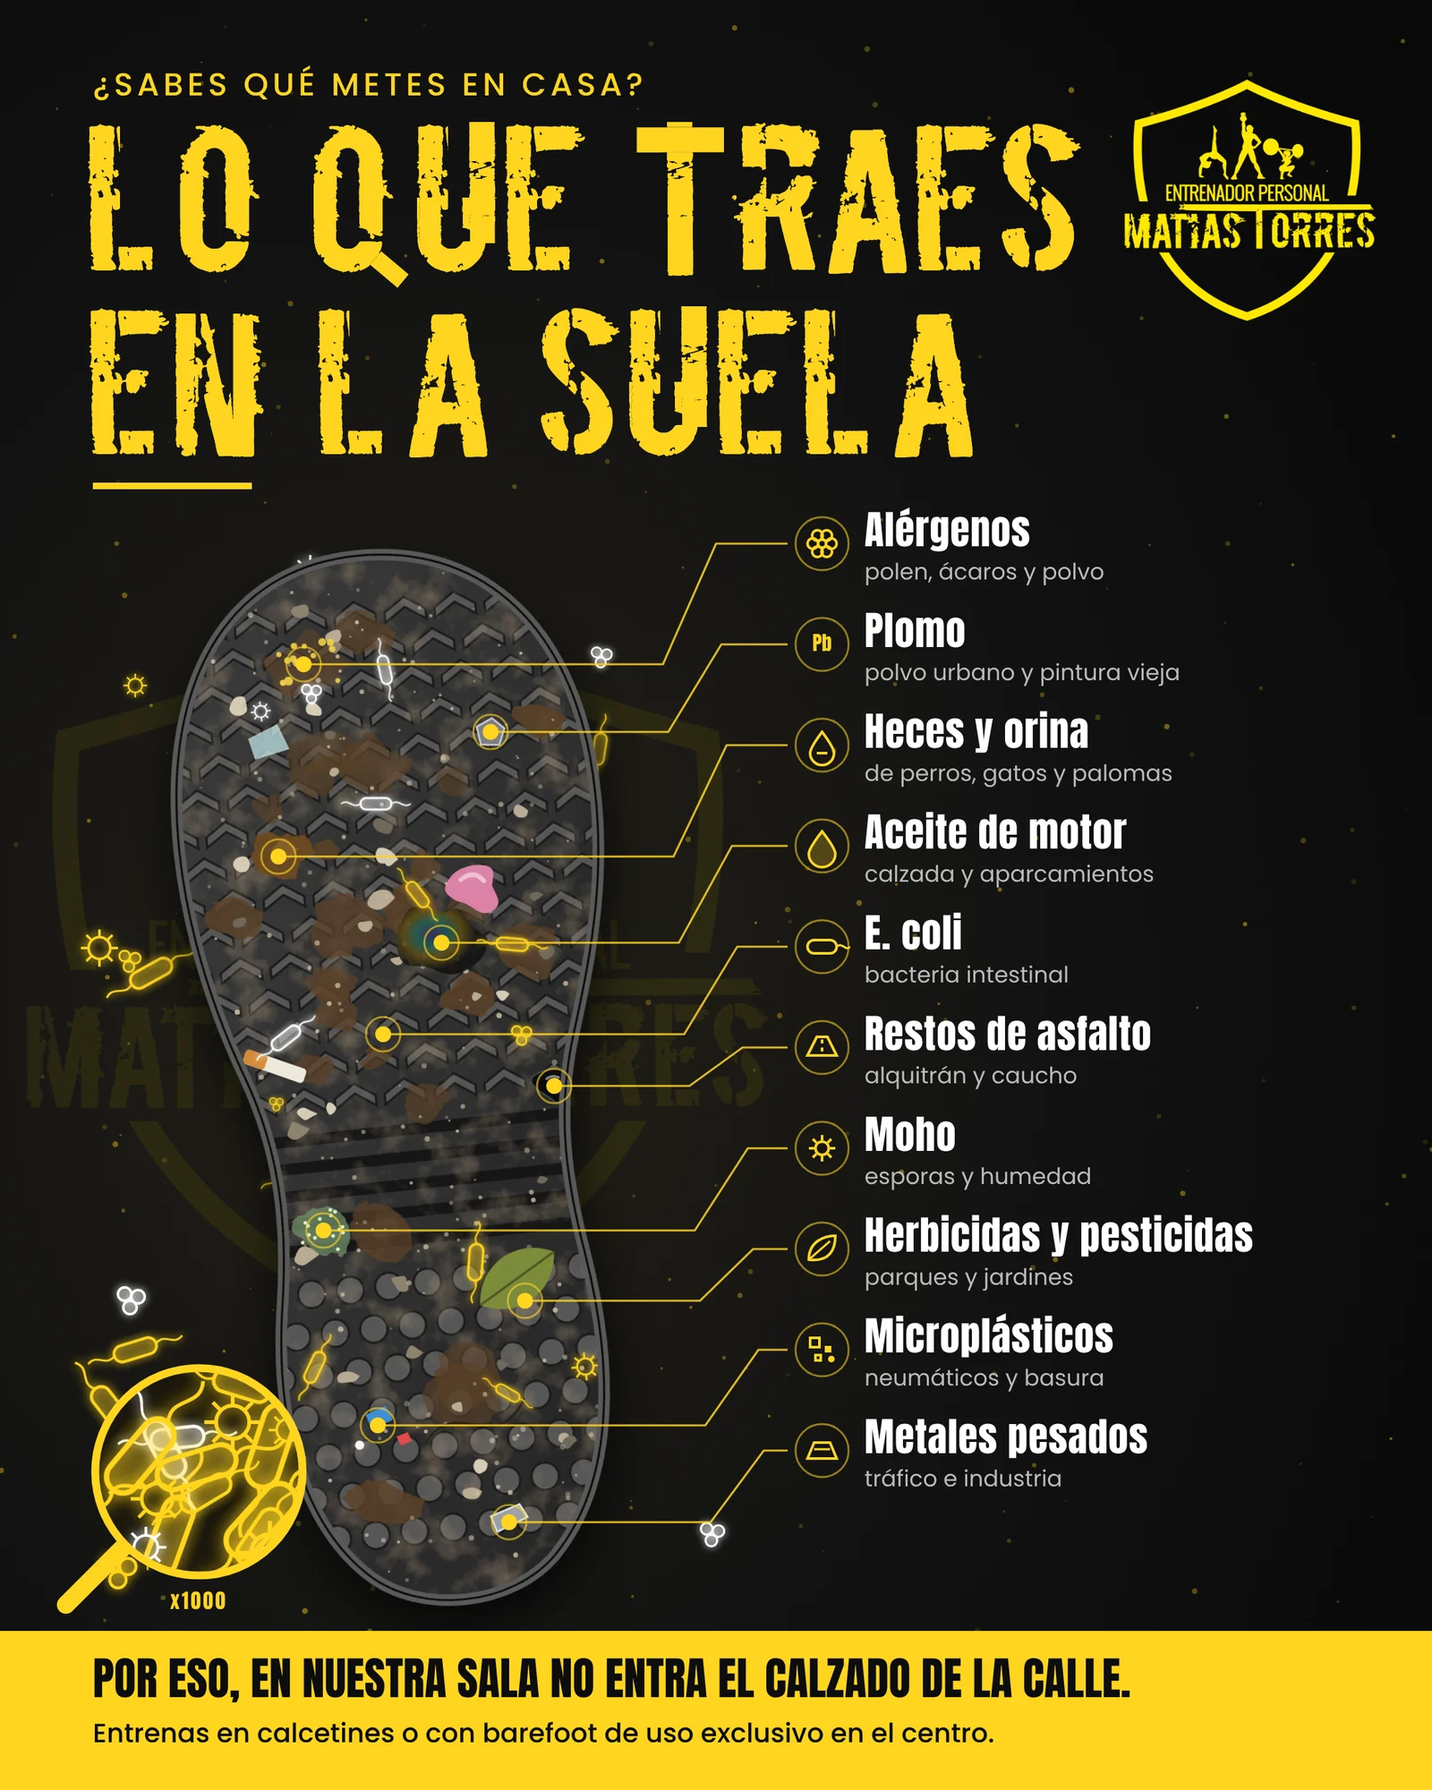
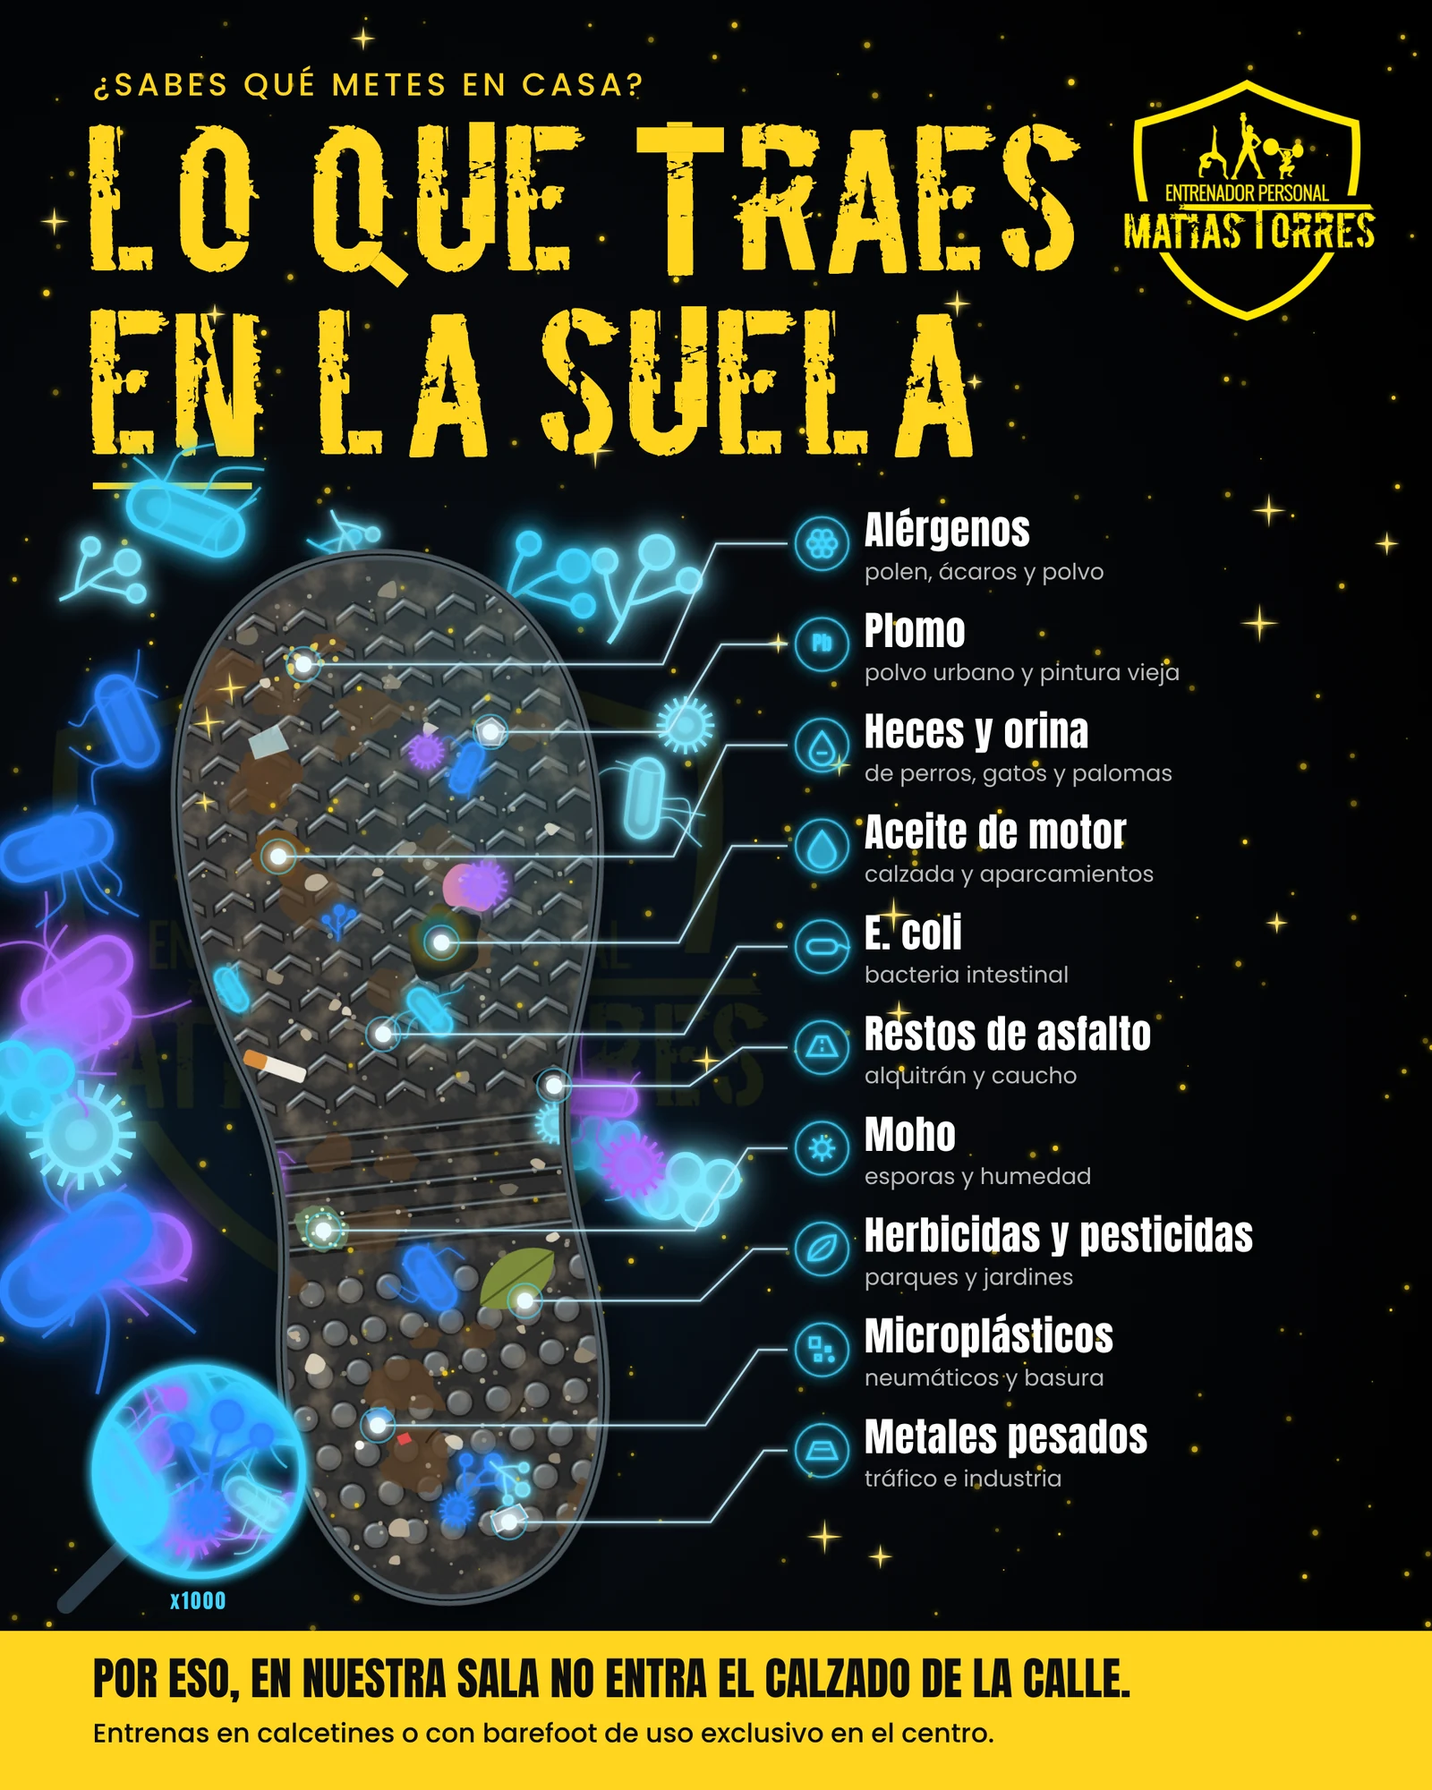
Infografía de la suela con estética futurista: microbios en azul neón, fondo negro y destellos amarillos
Claude-Session: https://claude.ai/code/session_01NkzjF1AwGu8vPrnnPT5pjp

diff --git a/index.html b/index.html
@@ -1261,7 +1261,7 @@ html,body{overflow-x:clip}
     <h2 class="title">Vienes con lo puesto. Sales listo para tu día.</h2>
     <p class="lead sa-lead">Nunca más de dos personas por hora. Y una idea fija: que aquí <b>tu único esfuerzo sea entrenar.</b></p>
     <div class="sa-grid">
-      <article class="sa-card sa-pies"><img src="https://d8j0ntlcm91z4.cloudfront.net/user_3LKdWAwD4AuD7se4yAJwOUo08PC/hf_20261119_184514_bf55caaf-d1de-49d6-b911-7ce38302276c.png" alt="Calcetines de pilates y zapatillas minimalistas sobre un banco de madera; en un círculo rojo tachado, zapatillas sucias de la calle" loading="lazy" decoding="async"><div class="sa-steps" aria-hidden="true"><i></i><i></i><i></i><i></i></div><div class="sa-txt"><span>01</span><h3>Aquí se entrena sin zapatos de la calle</h3><p>Más higiene y pies más fuertes.</p><button type="button" class="sa-suela" data-suela="fotos/suela-sucia.webp">¿Qué traes en la suela? <b>Míralo →</b></button></div></article>
+      <article class="sa-card sa-pies"><img src="https://d8j0ntlcm91z4.cloudfront.net/user_3LKdWAwD4AuD7se4yAJwOUo08PC/hf_20261119_184514_bf55caaf-d1de-49d6-b911-7ce38302276c.png" alt="Calcetines de pilates y zapatillas minimalistas sobre un banco de madera; en un círculo rojo tachado, zapatillas sucias de la calle" loading="lazy" decoding="async"><div class="sa-steps" aria-hidden="true"><i></i><i></i><i></i><i></i></div><div class="sa-txt"><span>01</span><h3>Aquí se entrena sin zapatos de la calle</h3><p>Más higiene y pies más fuertes.</p><button type="button" class="sa-suela" data-suela="fotos/suela-sucia.webp?v=2">¿Qué traes en la suela? <b>Míralo →</b></button></div></article>
       <article class="sa-card sa-cafe"><img src="https://d8j0ntlcm91z4.cloudfront.net/user_3LKdWAwD4AuD7se4yAJwOUo08PC/hf_20261119_184341_bd212c0e-9466-4832-bdb4-b334db8f39eb.png" alt="Taza de café de especialidad humeante junto a una cafetera profesional" loading="lazy" decoding="async"><div class="sa-steam sa-bg" aria-hidden="true"><i></i><i></i><i></i><i></i><i></i></div><div class="sa-steam" aria-hidden="true"><i></i><i></i><i></i><i></i><i></i><i></i></div><div class="sa-txt"><span>02</span><h3>El café, recién hecho</h3><p>También agua, infusiones y chocolate. <b>Incluido.</b></p></div></article>
       <article class="sa-card"><img src="https://d8j0ntlcm91z4.cloudfront.net/user_3LKdWAwD4AuD7se4yAJwOUo08PC/hf_20261119_184601_430fff5d-307e-4201-a40b-a38df4e8a00f.png" alt="Estantería con toallas azules y rosas para la sala y toallas blancas apiladas en el aseo" loading="lazy" decoding="async"><div class="sa-txt"><span>03</span><h3>Toalla limpia, cada día</h3><p>Lavada a diario y guardada en un espacio climatizado.</p></div></article>
       <article class="sa-card"><img src="https://d8j0ntlcm91z4.cloudfront.net/user_3LKdWAwD4AuD7se4yAJwOUo08PC/hf_20261119_184648_d6999514-35e3-4082-adb9-6d0b098674cb.png" alt="Aseo con ducha, toallas y productos de higiene" loading="lazy" decoding="async"><div class="sa-txt"><span>04</span><h3>Ducha completa. No traigas nada.</h3><p>Toalla, champú, gel y desodorante. Sales listo.</p></div></article>

diff --git a/fotos-origen/suela-sucia-gen.py b/fotos-origen/suela-sucia-gen.py
@@ -85,31 +85,48 @@ def microbes(n, box, scale=1):
     x0, y0, x1, y1 = box; out = []
     for i in range(n):
         x = random.uniform(x0, x1); y = random.uniform(y0, y1); a = random.uniform(0, 180)
-        s = random.uniform(.7, 1.3) * scale
+        s = random.uniform(.7, 1.4) * scale
         k = random.random()
-        col = "#FFD51F" if random.random() < .7 else "#ffffff"
-        if k < .5:  # bacilo con flagelos
-            out.append(f'<g transform="translate({x:.0f} {y:.0f}) rotate({a:.0f}) scale({s:.2f})" class="glow" stroke="{col}">'
-                       f'<rect x="-16" y="-6" width="32" height="12" rx="6" fill="{col}" fill-opacity=".18" stroke-width="2"/>'
-                       f'<path d="M16 0 c8 -6 12 6 20 0 M-16 0 c-8 6 -12 -6 -20 0" fill="none" stroke-width="1.4"/></g>')
-        elif k < .8:  # cocos
-            out.append(f'<g transform="translate({x:.0f} {y:.0f}) scale({s:.2f})" class="glow" stroke="{col}" fill="{col}" fill-opacity=".18" stroke-width="1.8">'
-                       '<circle r="5"/><circle cx="10" cy="2" r="5"/><circle cx="4" cy="10" r="5"/></g>')
-        else:  # espora de moho
-            out.append(f'<g transform="translate({x:.0f} {y:.0f}) scale({s:.2f})" class="glow" stroke="{col}" fill="none" stroke-width="1.6">'
-                       '<circle r="7"/>' + "".join(f'<path d="M{7*math.cos(t):.1f} {7*math.sin(t):.1f} l{5*math.cos(t):.1f} {5*math.sin(t):.1f}"/>' for t in [i*math.pi/4 for i in range(8)]) + '</g>')
+        col = random.choice(["#3fd4ff", "#3fd4ff", "#2f86ff", "#7fe8ff", "#b06bff"])
+        if k < .45:  # bacilo (E. coli) con membrana y flagelos
+            fl = "".join(f'<path d="M{random.uniform(-14,14):.0f} {random.choice([-7,7])} c{random.uniform(-6,6):.0f} {random.uniform(-14,-6) if True else 0:.0f} {random.uniform(-12,12):.0f} {random.uniform(-18,-10):.0f} {random.uniform(-20,20):.0f} {random.uniform(-26,-16):.0f}" transform="scale(1 {random.choice([1,-1])})"/>' for _ in range(5))
+            out.append(f'<g transform="translate({x:.0f} {y:.0f}) rotate({a:.0f}) scale({s:.2f})" class="neon" stroke="{col}" fill="none">'
+                       f'<g stroke-width=".9" stroke-opacity=".8">{fl}</g>'
+                       f'<rect x="-20" y="-8" width="40" height="16" rx="8" fill="{col}" fill-opacity=".22" stroke-width="2.2"/>'
+                       f'<rect x="-14" y="-3.5" width="28" height="7" rx="3.5" fill="{col}" fill-opacity=".45" stroke="none"/></g>')
+        elif k < .7:  # polen espinoso (alérgeno)
+            sp = "".join(f'<path d="M{9*math.cos(t):.1f} {9*math.sin(t):.1f} L{14*math.cos(t):.1f} {14*math.sin(t):.1f}"/>' for t in [j*math.pi/8 for j in range(16)])
+            out.append(f'<g transform="translate({x:.0f} {y:.0f}) scale({s:.2f})" class="neon" stroke="{col}" fill="none" stroke-width="1.6">'
+                       f'<circle r="9" fill="{col}" fill-opacity=".25"/><circle r="4" fill="{col}" fill-opacity=".5" stroke="none"/>{sp}</g>')
+        elif k < .88:  # moho: hifas con esporangio
+            out.append(f'<g transform="translate({x:.0f} {y:.0f}) rotate({a:.0f}) scale({s:.2f})" class="neon" stroke="{col}" fill="none" stroke-width="1.5">'
+                       '<path d="M0 22 C2 10 -3 4 0 -6 M0 8 C6 4 8 -2 12 -4 M0 14 C-6 10 -9 6 -12 2"/>'
+                       f'<circle cx="0" cy="-10" r="5" fill="{col}" fill-opacity=".45"/><circle cx="13" cy="-7" r="3.5" fill="{col}" fill-opacity=".45"/><circle cx="-13" cy="0" r="3.5" fill="{col}" fill-opacity=".45"/></g>')
+        else:  # cocos en racimo
+            out.append(f'<g transform="translate({x:.0f} {y:.0f}) scale({s:.2f})" class="neon" stroke="{col}" fill="{col}" fill-opacity=".3" stroke-width="1.6">'
+                       '<circle r="5"/><circle cx="10" cy="2" r="5"/><circle cx="4" cy="10" r="5"/><circle cx="-6" cy="8" r="5"/></g>')
+    return "\n".join(out)
+
+def sparkles(n, box):
+    x0, y0, x1, y1 = box; out = []
+    for _ in range(n):
+        x = random.uniform(x0, x1); y = random.uniform(y0, y1); r = random.uniform(.6, 2.4)
+        out.append(f'<circle cx="{x:.0f}" cy="{y:.0f}" r="{r:.1f}" fill="#FFD51F" opacity="{random.uniform(.35,1):.2f}" filter="url(#spark)"/>')
+    for _ in range(int(n/18)):
+        x = random.uniform(x0, x1); y = random.uniform(y0, y1); L = random.uniform(6, 16)
+        out.append(f'<g transform="translate({x:.0f} {y:.0f})" filter="url(#spark)"><path d="M0 {-L} L1.2 -1.2 L{L} 0 L1.2 1.2 L0 {L} L-1.2 1.2 L{-L} 0 L-1.2 -1.2Z" fill="#FFE36A"/></g>')
     return "\n".join(out)
 
 ICONS = {
  "flor":  '<g fill="none" stroke-width="2"><circle r="3"/>' + "".join(f'<circle cx="{7*math.cos(t):.1f}" cy="{7*math.sin(t):.1f}" r="4"/>' for t in [i*2*math.pi/6 for i in range(6)]) + '</g>',
- "pb":    '<text y="5" text-anchor="middle" font-family="Anton" font-size="15" stroke="none" fill="#FFD51F">Pb</text>',
+ "pb":    '<text y="5" text-anchor="middle" font-family="Anton" font-size="15" stroke="none" fill="#3fd4ff">Pb</text>',
  "gota_h":'<path d="M0 -10 C6 -2 9 3 9 6 A9 9 0 0 1 -9 6 C-9 3 -6 -2 0 -10Z" fill="none" stroke-width="2"/><path d="M-4 6 h8" stroke-width="2"/>',
- "gota":  '<path d="M0 -11 C7 -2 10 3 10 6 A10 10 0 0 1 -10 6 C-10 3 -7 -2 0 -11Z" fill="#FFD51F" fill-opacity=".25" stroke-width="2"/>',
+ "gota":  '<path d="M0 -11 C7 -2 10 3 10 6 A10 10 0 0 1 -10 6 C-10 3 -7 -2 0 -11Z" fill="#3fd4ff" fill-opacity=".25" stroke-width="2"/>',
  "bac":   '<rect x="-11" y="-5" width="22" height="10" rx="5" fill="none" stroke-width="2"/><path d="M11 0 c4 -4 7 4 10 0" fill="none" stroke-width="1.6"/>',
  "asf":   '<path d="M-11 6 L-4 -8 L4 -8 L11 6 Z" fill="none" stroke-width="2"/><path d="M0 -6 v3 M0 0 v3" stroke-width="2"/>',
  "moho":  '<circle r="5" fill="none" stroke-width="2"/>' + "".join(f'<path d="M{6*math.cos(t):.1f} {6*math.sin(t):.1f} l{4*math.cos(t):.1f} {4*math.sin(t):.1f}" stroke-width="2"/>' for t in [i*math.pi/4 for i in range(8)]),
  "hoja":  '<path d="M-10 8 C-10 -6 2 -10 10 -10 C10 0 6 10 -10 8Z" fill="none" stroke-width="2"/><path d="M-10 8 L6 -6" stroke-width="1.6"/>',
- "micro": '<rect x="-9" y="-9" width="7" height="7" fill="none" stroke-width="2"/><rect x="2" y="-3" width="5" height="5" fill="#FFD51F" stroke="none"/><rect x="-5" y="4" width="4" height="4" fill="none" stroke-width="2"/><circle cx="7" cy="7" r="2.5" fill="#FFD51F" stroke="none"/>',
+ "micro": '<rect x="-9" y="-9" width="7" height="7" fill="none" stroke-width="2"/><rect x="2" y="-3" width="5" height="5" fill="#3fd4ff" stroke="none"/><rect x="-5" y="4" width="4" height="4" fill="none" stroke-width="2"/><circle cx="7" cy="7" r="2.5" fill="#3fd4ff" stroke="none"/>',
  "metal": '<path d="M-11 6 L-6 -6 H6 L11 6 Z" fill="none" stroke-width="2"/><path d="M-6 -1 H6" stroke-width="1.6"/>',
 }
 
@@ -145,36 +162,45 @@ def labels():
         e1 = 500 + i*4
         out.append(f'<path d="M{px:.0f} {py:.0f} L{e1} {py:.0f} L{e1+40} {y} L{lx-34} {y}" class="ln"/>')
         out.append(f'<circle cx="{px:.0f}" cy="{py:.0f}" r="6" class="dot"/><circle cx="{px:.0f}" cy="{py:.0f}" r="13" class="ring"/>')
-        out.append(f'<g transform="translate({lx-8} {y})" stroke="#FFD51F" fill="none"><circle r="20" stroke-width="1.5" stroke-opacity=".55"/><g transform="translate(0 0)">{ICONS[ic]}</g></g>')
+        out.append(f'<g transform="translate({lx-8} {y})" stroke="#3fd4ff" fill="none" class="neon"><circle r="20" stroke-width="1.5" stroke-opacity=".7"/><g transform="translate(0 0)">{ICONS[ic]}</g></g>')
         out.append(f'<text x="{lx+24}" y="{y+2}" class="lt">{t}</text>')
         out.append(f'<text x="{lx+24}" y="{y+27}" class="ld">{d}</text>')
     return "\n".join(out)
 
 svg = f'''<svg xmlns="http://www.w3.org/2000/svg" viewBox="0 0 {W} {H}" width="{W}" height="{H}">
 <defs>
- <radialGradient id="bg" cx="30%" cy="55%" r="80%"><stop offset="0" stop-color="#232016"/><stop offset=".55" stop-color="#121212"/><stop offset="1" stop-color="#090909"/></radialGradient>
+ <radialGradient id="bg" cx="30%" cy="55%" r="80%"><stop offset="0" stop-color="#0a0f16"/><stop offset=".55" stop-color="#05070a"/><stop offset="1" stop-color="#000"/></radialGradient>
  <linearGradient id="rubber" x1="0" y1="0" x2="1" y2="1"><stop offset="0" stop-color="#3b3b3b"/><stop offset="1" stop-color="#232323"/></linearGradient>
  <radialGradient id="oil" cx="40%" cy="40%"><stop offset="0" stop-color="#3a2b5c"/><stop offset=".35" stop-color="#1d5e57"/><stop offset=".65" stop-color="#5b4a12"/><stop offset="1" stop-color="#111"/></radialGradient>
  <filter id="rough"><feTurbulence type="fractalNoise" baseFrequency=".09" numOctaves="2" seed="4"/><feDisplacementMap in="SourceGraphic" scale="9"/></filter>
  <filter id="grime" x="0" y="0" width="100%" height="100%"><feTurbulence type="fractalNoise" baseFrequency=".035" numOctaves="4" seed="21"/><feColorMatrix values="0 0 0 0 .36  0 0 0 0 .27  0 0 0 0 .17  0 0 0 1.3 -.62"/></filter>
  <filter id="glow" x="-50%" y="-50%" width="200%" height="200%"><feGaussianBlur stdDeviation="3" result="b"/><feMerge><feMergeNode in="b"/><feMergeNode in="SourceGraphic"/></feMerge></filter>
  <filter id="shadow" x="-20%" y="-20%" width="140%" height="140%"><feDropShadow dx="0" dy="18" stdDeviation="22" flood-color="#000" flood-opacity=".7"/></filter>
+ <filter id="neon" x="-80%" y="-80%" width="260%" height="260%"><feGaussianBlur in="SourceGraphic" stdDeviation="5" result="b1"/><feGaussianBlur in="SourceGraphic" stdDeviation="1.4" result="b2"/><feMerge><feMergeNode in="b1"/><feMergeNode in="b1"/><feMergeNode in="b2"/><feMergeNode in="SourceGraphic"/></feMerge></filter>
+ <filter id="spark" x="-200%" y="-200%" width="500%" height="500%"><feGaussianBlur stdDeviation="2.2" result="b"/><feMerge><feMergeNode in="b"/><feMergeNode in="SourceGraphic"/></feMerge></filter>
+ <filter id="lg" x="-5%" y="-50%" width="110%" height="200%"><feGaussianBlur stdDeviation="2" result="b"/><feMerge><feMergeNode in="b"/><feMergeNode in="SourceGraphic"/></feMerge></filter>
+ <filter id="glow2" x="-200%" y="-200%" width="500%" height="500%"><feGaussianBlur stdDeviation="4" result="b"/><feMerge><feMergeNode in="b"/><feMergeNode in="b"/><feMergeNode in="SourceGraphic"/></feMerge></filter>
+ <filter id="relief" x="0" y="0" width="100%" height="100%"><feGaussianBlur in="SourceAlpha" stdDeviation="2.2" result="bl"/><feSpecularLighting in="bl" surfaceScale="5" specularConstant=".9" specularExponent="22" lighting-color="#d9f3ff" result="sp"><feDistantLight azimuth="235" elevation="38"/></feSpecularLighting><feComposite in="sp" in2="SourceAlpha" operator="in" result="sp2"/><feComposite in="SourceGraphic" in2="sp2" operator="arithmetic" k2="1" k3=".55"/></filter>
+ <filter id="grain" x="0" y="0" width="100%" height="100%"><feTurbulence type="fractalNoise" baseFrequency=".9" numOctaves="2" seed="3"/><feColorMatrix values="0 0 0 0 .7  0 0 0 0 .7  0 0 0 0 .7  0 0 0 .5 -.18"/></filter>
+ <radialGradient id="rimlight" cx="70%" cy="20%" r="75%"><stop offset="0" stop-color="#3fd4ff" stop-opacity=".12"/><stop offset=".5" stop-color="#3fd4ff" stop-opacity="0"/></radialGradient>
+ <radialGradient id="bgblue" cx="28%" cy="62%" r="45%"><stop offset="0" stop-color="#0c3150" stop-opacity=".55"/><stop offset="1" stop-color="#000" stop-opacity="0"/></radialGradient>
  <clipPath id="sole"><path d="{SOLE}"/></clipPath>
  <clipPath id="lens"><circle cx="0" cy="0" r="92"/></clipPath>
  <style>
   .lug{{fill:#565656;stroke:#1a1a1a;stroke-width:2}}
   .lug2{{fill:#161616}}
   .glow{{filter:url(#glow)}}
-  .ln{{fill:none;stroke:#FFD51F;stroke-width:1.6;stroke-opacity:.85}}
-  .dot{{fill:#FFD51F}}
-  .ring{{fill:none;stroke:#FFD51F;stroke-width:1.5;stroke-opacity:.6}}
+  .neon{{filter:url(#neon)}}
+  .ln{{fill:none;stroke:#bfefff;stroke-width:1.5;stroke-opacity:.9;filter:url(#lg)}}
+  .dot{{fill:#e9fbff;filter:url(#glow2)}}
+  .ring{{fill:none;stroke:#3fd4ff;stroke-width:1.5;stroke-opacity:.6}}
   .lt{{font-family:Anton;font-size:30px;fill:#fff;letter-spacing:.5px}}
   .ld{{font-family:Poppins;font-size:17px;fill:#b9b9b9}}
  </style>
 </defs>
 <rect width="{W}" height="{H}" fill="url(#bg)"/>
-<!-- polvo amarillo de fondo -->
-{"".join(f'<circle cx="{random.uniform(0,W):.0f}" cy="{random.uniform(0,H):.0f}" r="{random.uniform(.6,2.2):.1f}" fill="#FFD51F" opacity="{random.uniform(.08,.45):.2f}"/>' for _ in range(220))}
+<rect width="{W}" height="{H}" fill="url(#bgblue)"/>
+{sparkles(340, (0,0,W,H-120))}
 <!-- escudo de marca de agua grande -->
 <image href="escudo.png" x="20" y="460" width="560" height="538" opacity=".07"/>
 <!-- titulo -->
@@ -183,30 +209,35 @@ svg = f'''<svg xmlns="http://www.w3.org/2000/svg" viewBox="0 0 {W} {H}" width="{
 <image href="t2.png" x="66" y="231" width="669" height="114"/>
 <rect x="70" y="364" width="120" height="5" fill="#FFD51F"/>
 <!-- microbios alrededor -->
-{microbes(18, (20, 420, 540, 1200))}
+{microbes(10, (0, 430, 120, 1180), 2.3)}
+{microbes(8, (430, 430, 560, 1180), 1.9)}
+{microbes(4, (120, 380, 470, 440), 1.8)}
 <!-- suela -->
 <g transform="translate({SOLE_TX} {SOLE_TY}) translate(260 465) rotate({SOLE_ROT}) scale({SOLE_S}) translate(-260 -465)" filter="url(#shadow)">
   <path d="{SOLE}" fill="url(#rubber)"/>
   <g clip-path="url(#sole)">
-    {lugs()}
+    <g filter="url(#relief)">{lugs()}</g>
     <rect width="520" height="940" filter="url(#grime)"/>
+    <rect width="520" height="940" filter="url(#grain)" opacity=".22"/>
     {debris()}
-    {microbes(14, (110, 60, 410, 860), .8)}
+    {microbes(12, (110, 60, 410, 860), 1.1)}
+    {sparkles(60, (90,20,430,900))}
+    <rect width="520" height="940" fill="url(#rimlight)"/>
   </g>
-  <path d="{SOLE}" fill="none" stroke="#5a5a5a" stroke-width="10"/>
+  <path d="{SOLE}" fill="none" stroke="#4a4f55" stroke-width="10"/><path d="{SOLE}" fill="none" stroke="#7fe8ff" stroke-opacity=".35" stroke-width="2" filter="url(#lg)"/>
   <path d="{SOLE}" fill="none" stroke="#111" stroke-width="2" transform="translate(0 0)"/>
 </g>
 {labels()}
 <!-- lupa -->
 <g transform="translate(150 1110) scale(.85)">
-  <line x1="-62" y1="62" x2="-118" y2="118" stroke="#FFD51F" stroke-width="16" stroke-linecap="round"/>
+  <line x1="-62" y1="62" x2="-118" y2="118" stroke="#2a3a48" stroke-width="16" stroke-linecap="round"/>
   <circle r="92" fill="#0b0b0b"/>
   <g clip-path="url(#lens)">
-    <circle r="92" fill="#1b170c"/>
+    <circle r="92" fill="#04121d"/>
     {microbes(16, (-80, -80, 80, 80), 2.0)}
   </g>
-  <circle r="92" fill="none" stroke="#FFD51F" stroke-width="7"/>
-  <text x="0" y="122" text-anchor="middle" font-family="Anton" font-size="18" fill="#FFD51F" letter-spacing="2">x1000</text>
+  <circle r="92" fill="none" stroke="#3fd4ff" stroke-width="6" class="neon"/>
+  <text x="0" y="122" text-anchor="middle" font-family="Anton" font-size="18" fill="#3fd4ff" letter-spacing="2">x1000</text>
 </g>
 <!-- pie -->
 <rect x="0" y="{H-120}" width="{W}" height="120" fill="#FFD51F"/>
@@ -215,6 +246,6 @@ svg = f'''<svg xmlns="http://www.w3.org/2000/svg" viewBox="0 0 {W} {H}" width="{
 <!-- escudo firma -->
 <image href="escudo.png" x="{W-232}" y="60" width="190" height="182"/>
 </svg>'''
-open("suela.svg", "w").write(svg)
-open("suela.html", "w").write(f'<!doctype html><html><head><meta charset="utf-8"><style>html,body{{margin:0;background:#000}}</style></head><body>{svg}</body></html>')
+open("suela2.svg", "w").write(svg)
+open("suela2.html", "w").write(f'<!doctype html><html><head><meta charset="utf-8"><style>html,body{{margin:0;background:#000}}</style></head><body>{svg}</body></html>')
 print("ok")
